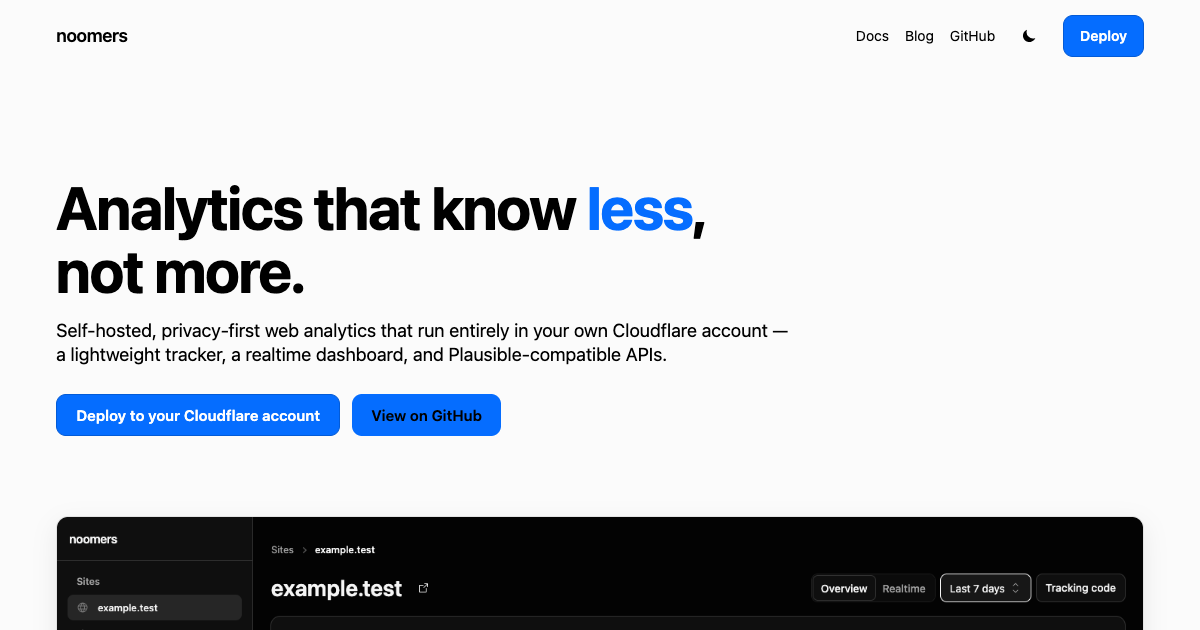
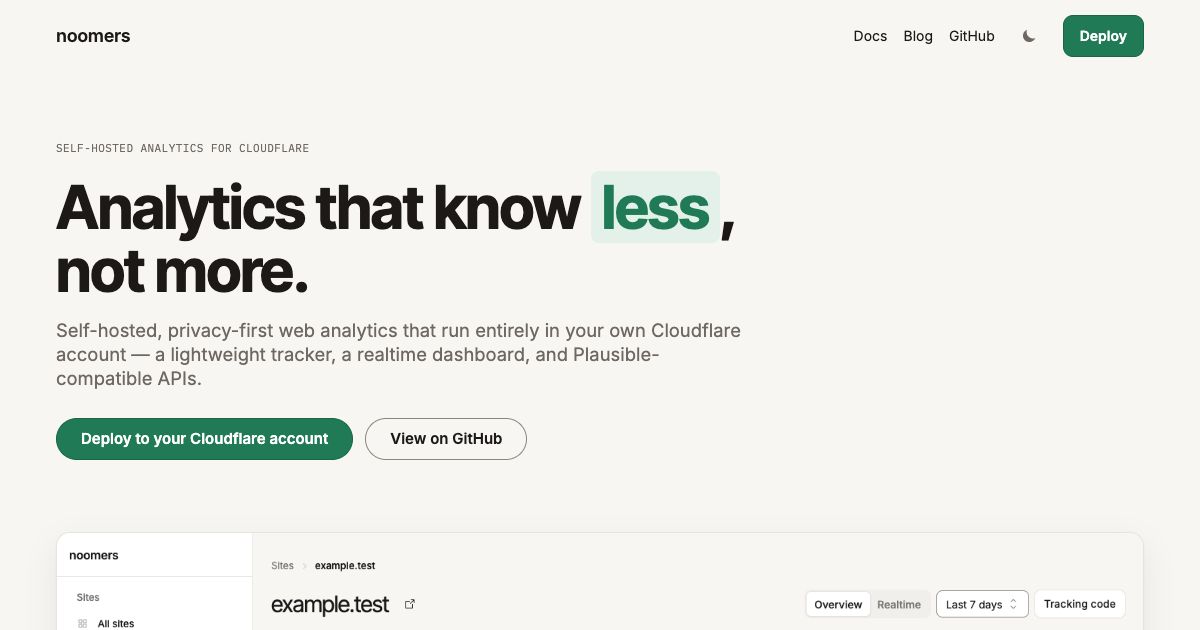
Marketing site: editorial treatment on the warm theme
- Inter Tight hero headline with a single brand-tint keyword, mono
  eyebrow, pill CTAs (primary brand, secondary outline)
- Product screenshot in a white frame with the single soft shadow
  (hairline only in dark); re-captured from the re-themed dashboard
- Alternating canvas/white section bands with mono eyebrows; check
  icons in brand, X icons in subtle
- New og.png rendered from the hero

diff --git a/apps/site/src/styles.css b/apps/site/src/styles.css
@@ -1,5 +1,8 @@
 @import "tailwindcss";
 @import "@cloudflare/kumo/styles/tailwind";
+@import "@fontsource-variable/inter";
+@import "@fontsource-variable/inter-tight";
+@import "@fontsource/ibm-plex-mono";
 @import "@noomers/brand/tokens.css";
 
 .wrap {
@@ -10,10 +13,26 @@
 body {
   background: var(--color-kumo-canvas);
   color: var(--color-kumo-default);
-  font-family: var(--font-sans);
+  font-family: "Inter Variable", -apple-system, BlinkMacSystemFont, "Segoe UI", Roboto, sans-serif;
   font-size: 15px;
   line-height: 24px;
 }
+h1,
+h2,
+h3 {
+  font-family: "Inter Tight Variable", "Inter Variable", -apple-system, sans-serif;
+  font-weight: 400;
+  letter-spacing: -0.02em;
+}
+.mono-label {
+  font-family: "IBM Plex Mono", ui-monospace, Menlo, monospace;
+  font-size: 0.6875rem;
+  font-weight: 500;
+  letter-spacing: 0.04em;
+  text-transform: uppercase;
+  color: var(--color-kumo-subtle);
+}
+
 .surface {
   background: var(--color-kumo-elevated);
   border: 1px solid var(--color-kumo-line);
